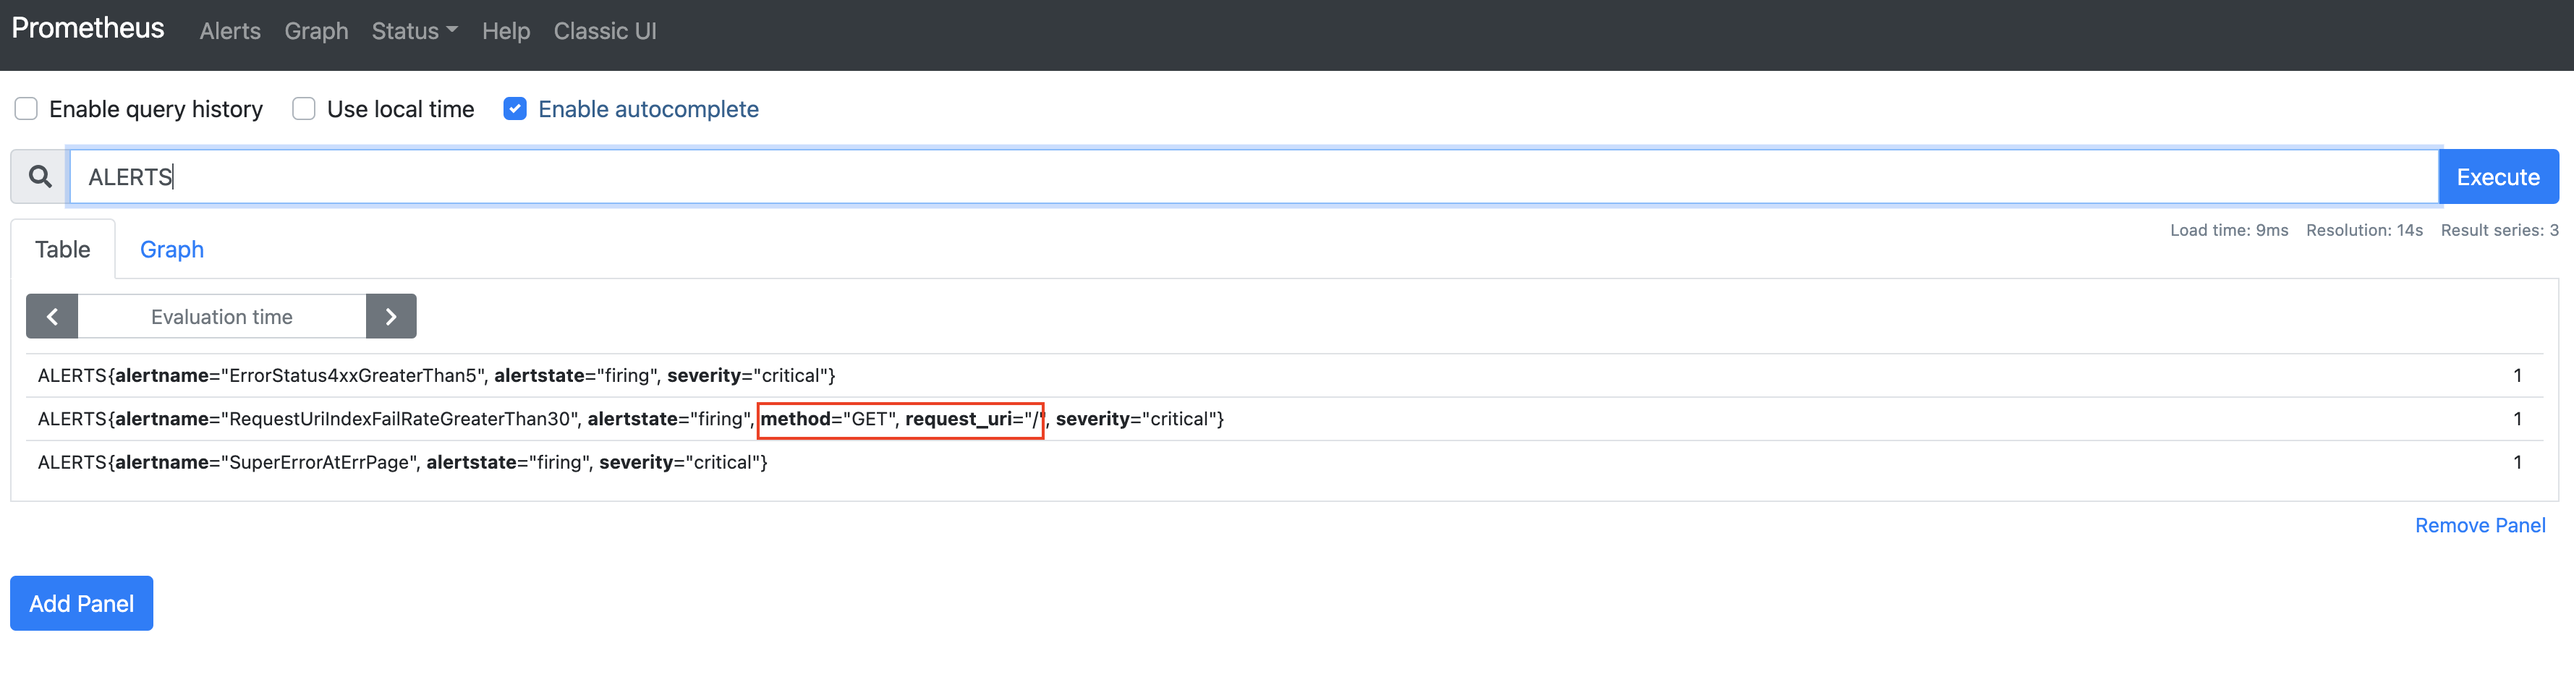
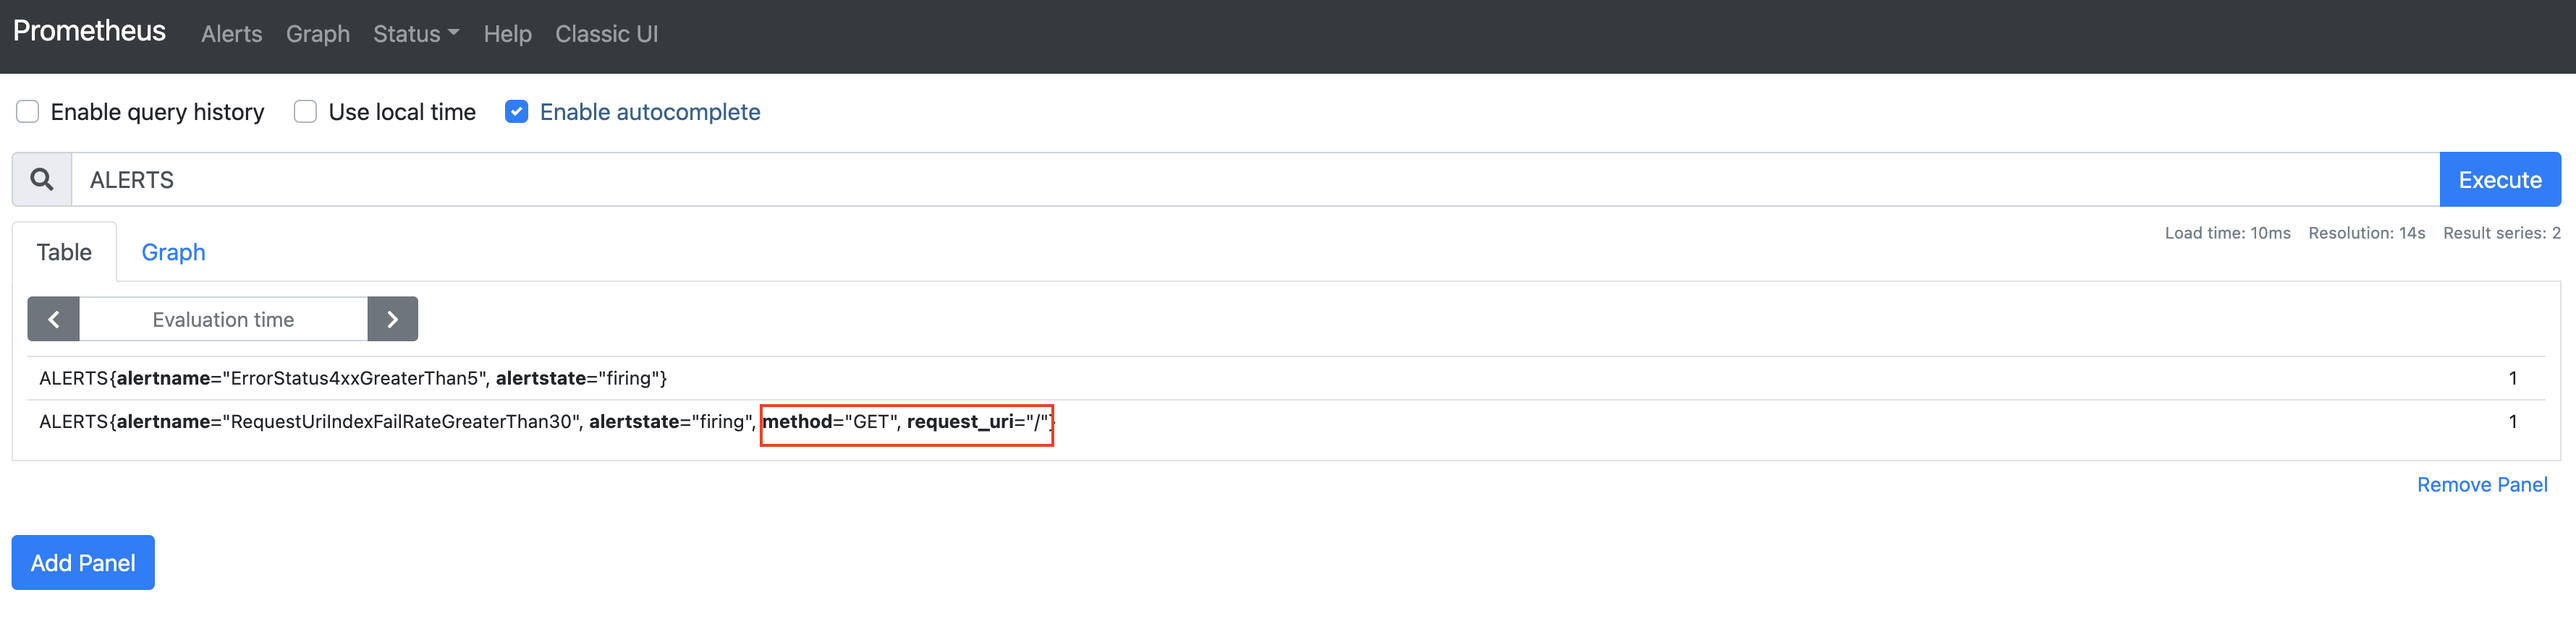
docs: Update 03_alerting_rule

diff --git a/gurumee-note/monitoring/prometheus/part4/03_alerting_rule/README.md b/gurumee-note/monitoring/prometheus/part4/03_alerting_rule/README.md
@@ -6,7 +6,7 @@
 
 `Prometheus`의 알람은 크게 2가지 부분으로 나눌 수 있다.
 
-* 알람 규칙을 정의하는 Alert Rule
+* 알람 규칙을 정의하는 Alerting Rule
 * 생성된 알람을 3자에 전달해주는 Alertmanager
 
 이 문서에서는 `Prometheus`에서 알람을 생성하는 부분인 `Alerting Rule`에 대해서 다룰 예정이다. 또한 현재 문서에서는 편의성을 위해 `Docker` 환경에서 진행하나, 실제 서버 환경에서도 크게 다르지 않으니 거의 동일하게 작업할 수 있다. 관련 코드는 다음 링크를 참고하길 바란다.
@@ -27,12 +27,12 @@
 
 * INACTIVE : 알람 조건에 맞는 알람 세트가 없음. 정상 상태.
   ![02](./02.png)
-* PENDING : 알람 조건에 충족하는 알람 세트가 나타난 상태이다. Alert Rule에 정의된 "for" 기간 동안 이 상태를 유지한다. 해당 기간이 지나면 "FIRING" 상태가 된다.
+* PENDING : 알람 조건에 충족하여 알람 세트가 생성된 상태이다. Alert Rule에 정의된 "for" 기간 동안 이 상태를 유지하게 되면 "FIRING" 상태가 된다.
   ![03](./03.png)
 * FIRING : "PENDING" 상태가 주어진 기간동안 유지될 경우, 이 상태로 전이한다. 이 상태가 되면 Prometheus는 알람의 "Notification"을 Alertmanager로 전송한다.
   ![04](./04.png)
 
-또한 FIRING 이후, 문제 해결이 됐을 때, 그러니까 더 이상 조건에 충족하는 시계열이 없다면 다시 "INACTIVE"가 된다. 상태 전이를 알기 쉽게 그림으로 표현하면 다음과 같다.
+또한 FIRING 이후, 문제 해결이 됐을 때, 혹은 그 이전에 해결된 경우 그러니까 더 이상 조건에 충족하는 알람 세트가 없다면 다시 "INACTIVE"가 된다. 상태 전이를 알기 쉽게 그림으로 표현하면 다음과 같다.
 
 ![05](./05.png)
 
@@ -52,7 +52,9 @@ groups:
 # ...
 ```
 
-`Alerting Rule`은 크게 두 가지 방법으로 작성할 수 있다. `ErrorStatus4xxGreaterThan5`는 `PromQL`로 작성한 `Alerting Rule`이다. 먼저, `alert`, `expr`은 필수 요소이다. `record`가 `Recording Rule`이 생성하는 메트릭의 이름을 나타낸 것처럼, `alert`는 `Alerting Rule`이 만들어내는 알람 세트의 이름을 나타낸다. `expr`에는 알람 조건을 작성한다. `PromQL` 혹은 `Recording Rule`로 작성할 수 있다. 위의 `Alerting Rule`은 초당 4xx 상태 코드 개수가 5개보다 높으면 알람이 발생하게 된다. 이 알람 세트는 `ALERTS`로 쿼리할 수 있다.
+먼저, `alert`, `expr`은 필수 요소이다. `record`가 `Recording Rule`이 생성하는 메트릭의 이름을 나타낸 것처럼, `alert`는 `Alerting Rule`이 만들어내는 알람 세트의 이름을 나타낸다. 
+
+`expr`에는 알람 조건을 작성한다. `PromQL` 혹은 `Recording Rule`로 작성할 수 있다. 위의 `Alerting Rule`은 초당 4xx 상태 코드 개수가 5개보다 높으면 알람 세트를 생성한다. 이 알람 세트는 `ALERTS`로 쿼리할 수 있다.
 
 ![06](./06.png)
 
@@ -71,7 +73,7 @@ groups:
 # ...
 ```
 
-`RequestUriIndexFailRateGreaterThan30`이 바로 `Recording Rule`로 작성한 `Alerting Rule`이다. 여기서는 `for`가 추가된 것을 확인할 수 있다. `for`는 PENDING 상태에서 FIRING 상태로 넘어가는 시간을 말한다. 쉽게 말해서 알람 발생 이전에 보류 기간이 1분이라는 것이다.
+`RequestUriIndexFailRateGreaterThan30`이 바로 `Recording Rule`로 작성한 `Alerting Rule`이다. 여기서는 `for`가 추가된 것을 확인할 수 있다. `for`는 PENDING 상태에서 FIRING 상태로 넘어가는 시간을 말한다. 쉽게 말해서 알람 발생 이전에 보류 기간이 1분이라는 것이다. 이 기간이 지나면, `Prometheus`는 `Alertmanager`로 알람을 전송한다. 이후 `Alertmanager`가 제 3자인 `Slack`, `email` 등으로 통보(Notification)하게 된다.
 
 한 가지 반드시 알아둘 것은 `Recording Rule`은 쿼리 시 시계열의 개수를 줄이는 것에 반면, `Alerting Rule`은 알람 조건을 걸어야 하는 시계열을 정확하게 하는데 의미가 있다는 것이다. 무슨 말이냐면, 일반적으로 `Recording Rule`은 정규 표현식을 쓸 것이 아니라면, 레이블 사용을 권장하지 않는다. 오히려 레이블의 이점을 남는 방식으로 작성하는 것이 정석이다.  반면에 위 `Alerting Rule`은 "/에 요청 실패율 30% 이상일 때 알람을 걸자" 같은 명확한 요구 사항이 있다. 따라서 `Alerting Rule`은 오히려 `PromQL`에서 레이블 사용을 적극적으로 하고 있는 편이다.
 
@@ -80,6 +82,9 @@ groups:
 `Alerting Rule`로 만들어낸 시계열 역시 레이블을 넣어줄 수 있다. 기본적으로 `alert`에 지정한 `alertname`과 알람 세트의 상태를 나타내는 `alertstate`가 있다. 그 외 레이블들은 `labels`로 지정할 수 있다. 
 
 ![07](./07.png)
+
+> 참고! 저는 ALERTS로 쿼리하면 2개밖에 뜨지 않아요.
+> 위 결과는 다음 절 "Alerting Rule 사용법 (3) 작성 시 주의 사항"을 진행해야 확인할 수 있습니다. 위 그림은 그냥 레이블을 썼을 때, 이런 레이블이 나타납니다를 보여주는 그림입니다. 이 절은 레이블을 어떻게 작성하는지에 대해서 더 집중해주세요.
 
 이제 어떻게 작성하면 되는지 알아보자. 
 
@@ -115,7 +120,9 @@ groups:
 
 ![09](./09.png)
 
-자동으로 생성되는 레이블 중 `alertname`과 `alertstate` 말고 우리도 모르게 생성된 것들이 있다. 알람도 결국 시계열에 속한 "벡터" 중 하나이다. 따라서 연산을 할 때 같은 레이블을 가질 수 있도록 맞춰주어야 한다. 코드를 다음과 같이 수정한다.
+자동으로 생성되는 레이블 중 `alertname`과 `alertstate` 말고 우리도 모르게 생성된 것들이 있다. 바로 `method`와 `request_uri`인데, 이는 원래 알람이 쿼리하고 있는 시계열의 레이블과 일치한다. 즉, 원 시계열에 속한 레이블도 알람 레이블로 자동으로 들어간다는 것이다. 
+
+여기서 알 수 있는 것은 알람도 결국 시계열에 속한 "벡터" 중 하나라는 것이다. 따라서 이 예제처럼 여러 시계열의 조건을 복합해서 알람을 만들어야 할 때는, 생성되는 알람 세트들이 같은 레이블을 가질 수 있도록 맞춰주어야 `Prometheus`가 정상적으로 `Alerting Rule`을 평가할 수 있다. 코드를 다음과 같이 수정한다.
 
 [part4/ch03/prometheus/rules/prometheus_nginxlog_exporter_rules.yml](https://github.com/gurumee92/gurumee-prometheus-code/blob/master/part4/ch03/prometheus/rules/prometheus_nginxlog_exporter_rules.yml)
 ```yml
@@ -135,6 +142,6 @@ groups:
        summary: 'SUPER ERROR'  
 ```
 
-`ignoring`을 이용해서 `job:nginx_http_response_count_total:fail_rate_1m{request_uri="/"}` 쿼리의 레이블들을 제거한다. 그러면 정상적으로 알람이 발생된 것을 확인할 수 있다.
+`ignoring`을 이용해서 `job:nginx_http_response_count_total:fail_rate_1m{request_uri="/"}` 쿼리의 레이블들을 제거한다. 이후 다시 `Prometheus`를 재기동 한 후, 에러를 발생시키면 정상적으로 알람이 발생된 것을 확인할 수 있다.
 
 ![10](./10.png)
